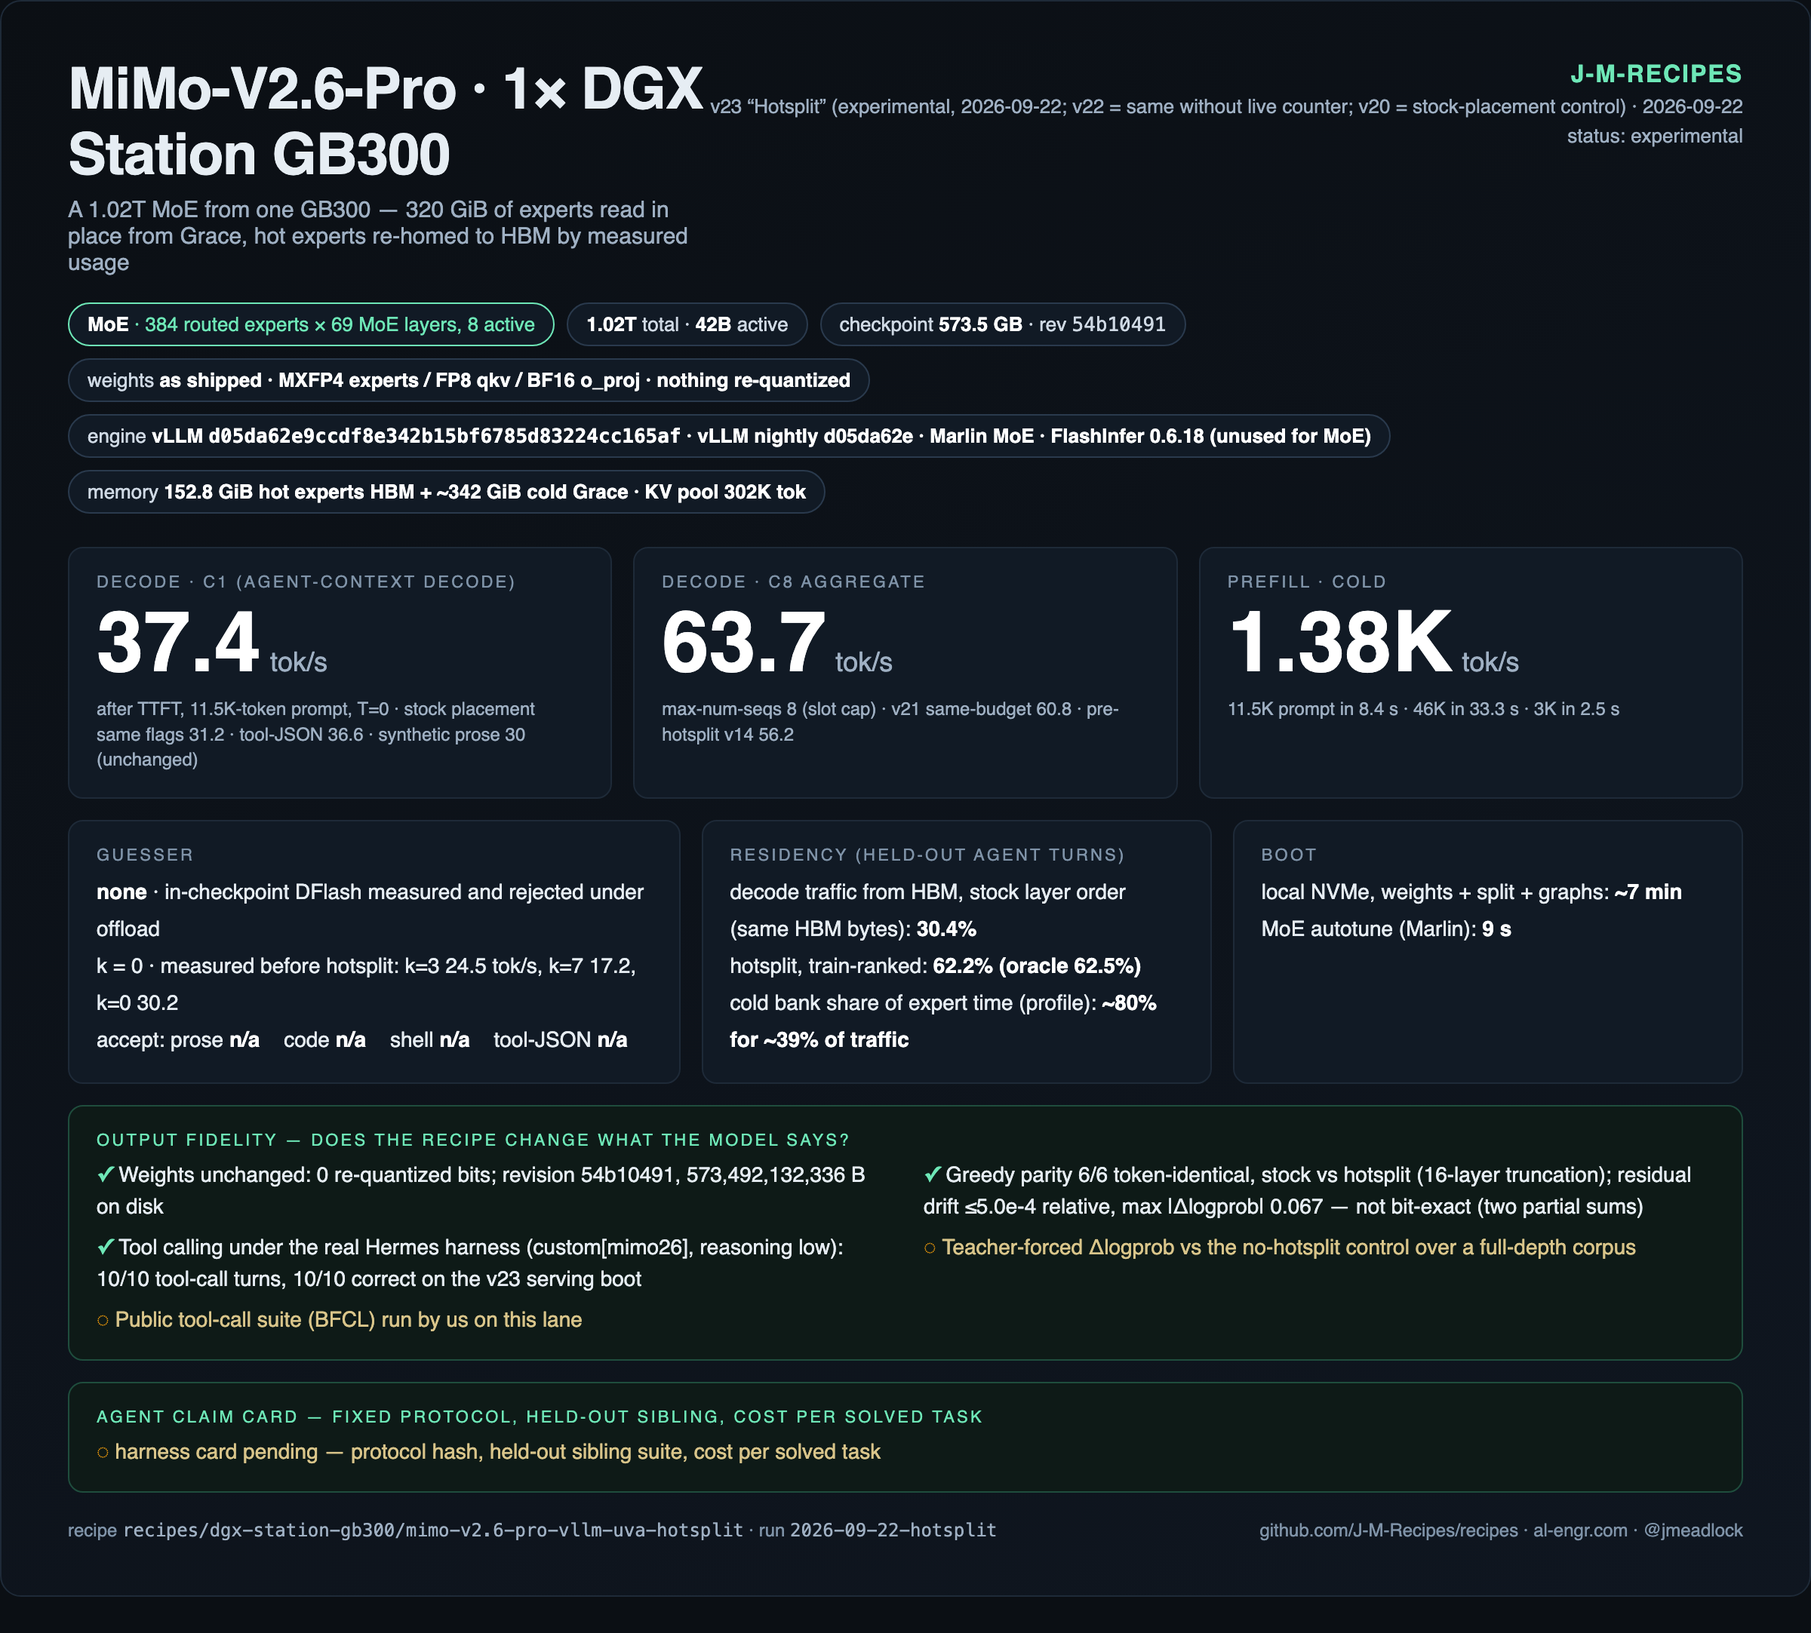
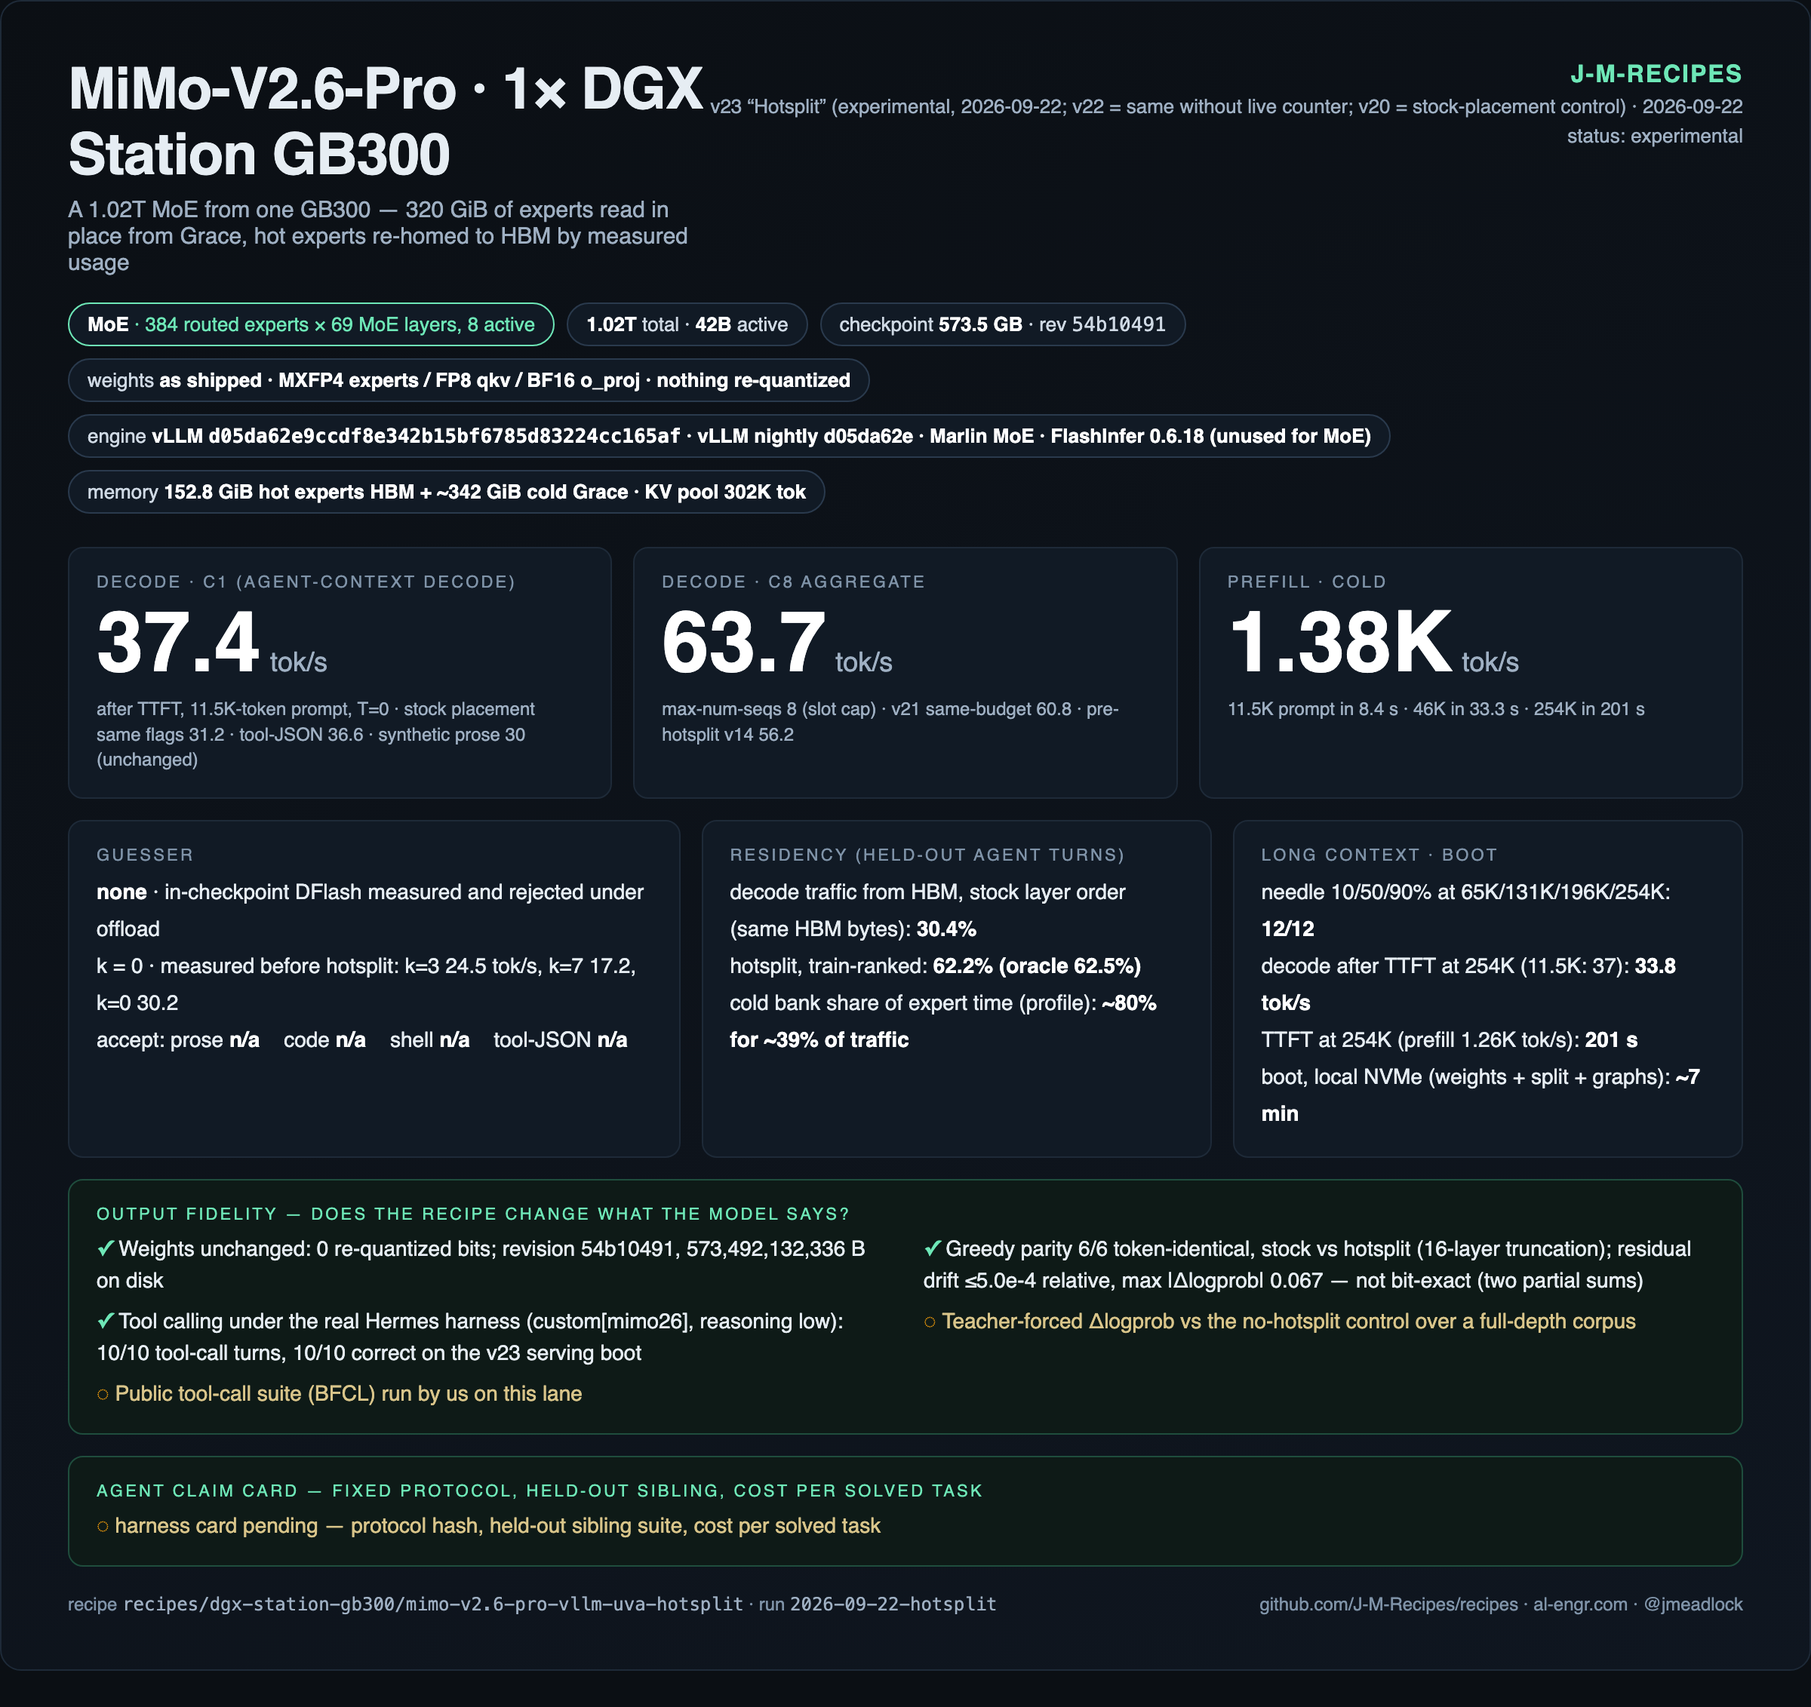
MiMo-V2.6-Pro hotsplit v23: long context to 254K — needles 12/12 at 65K/131K/196K/254K, decode 33.8 tok/s at 254K, TTFT 201 s; bench script + receipts (#48)

diff --git a/recipes/dgx-station-gb300/mimo-v2.6-pro-vllm-uva-hotsplit/card.html b/recipes/dgx-station-gb300/mimo-v2.6-pro-vllm-uva-hotsplit/card.html
@@ -57,12 +57,12 @@
   <div class="grid">
 <div class="box"><div class="lbl">Decode · C1 (agent-context decode)</div><div class="hero">37.4<small>tok/s</small></div><div class="note">after TTFT, 11.5K-token prompt, T=0 · stock placement same flags 31.2 · tool-JSON 36.6 · synthetic prose 30 (unchanged)</div></div>
 <div class="box"><div class="lbl">Decode · C8 aggregate</div><div class="hero">63.7<small>tok/s</small></div><div class="note">max-num-seqs 8 (slot cap) · v21 same-budget 60.8 · pre-hotsplit v14 56.2</div></div>
-<div class="box"><div class="lbl">Prefill · cold</div><div class="hero">1.38K<small>tok/s</small></div><div class="note">11.5K prompt in 8.4 s · 46K in 33.3 s · 3K in 2.5 s</div></div>
+<div class="box"><div class="lbl">Prefill · cold</div><div class="hero">1.38K<small>tok/s</small></div><div class="note">11.5K prompt in 8.4 s · 46K in 33.3 s · 254K in 201 s</div></div>
   </div>
   <div class="row2">
 <div class="box"><div class="lbl">Guesser</div><div class="kv"><b>none</b> · in-checkpoint DFlash measured and rejected under offload<br>k = 0 · measured before hotsplit: k=3 24.5 tok/s, k=7 17.2, k=0 30.2<br><span class="acc">accept: <span>prose <b>n/a</b></span> <span>code <b>n/a</b></span> <span>shell <b>n/a</b></span> <span>tool-JSON <b>n/a</b></span></span></div></div>
 <div class="box"><div class="lbl">Residency (held-out agent turns)</div><div class="kv">decode traffic from HBM, stock layer order (same HBM bytes): <b>30.4%</b><br>hotsplit, train-ranked: <b>62.2% (oracle 62.5%)</b><br>cold bank share of expert time (profile): <b>~80% for ~39% of traffic</b></div></div>
-<div class="box"><div class="lbl">Boot</div><div class="kv">local NVMe, weights + split + graphs: <b>~7 min</b><br>MoE autotune (Marlin): <b>9 s</b></div></div>
+<div class="box"><div class="lbl">Long context · boot</div><div class="kv">needle 10/50/90% at 65K/131K/196K/254K: <b>12/12</b><br>decode after TTFT at 254K (11.5K: 37): <b>33.8 tok/s</b><br>TTFT at 254K (prefill 1.26K tok/s): <b>201 s</b><br>boot, local NVMe (weights + split + graphs): <b>~7 min</b></div></div>
   </div>
   <div class="fid"><div class="lbl">Output fidelity — does the recipe change what the model says?</div>
     <ul>

diff --git a/recipes/dgx-station-gb300/mimo-v2.6-pro-vllm-uva-hotsplit/scripts/longctx_bench.py b/recipes/dgx-station-gb300/mimo-v2.6-pro-vllm-uva-hotsplit/scripts/longctx_bench.py
@@ -1,0 +1,95 @@
+"""Long-context probe for the :30007 MiMo lane (served max_model_len 262,144).
+Per target size: 3 needle-recall runs (depth 10/50/90%) + 1 decode-timing run (256 tok, ignore_eos).
+Filler = varied real text (Python stdlib source), unique nonce at the head defeats prefix caching.
+Results append to longctx-TAG.jsonl; summary to longctx-TAG.json.
+usage: python3 longctx_bench.py TAG [sizes...]"""
+import json, os, sys, time, urllib.request, random, glob, statistics
+TAG = sys.argv[1]
+SIZES = [int(s) for s in sys.argv[2:]] or [65536, 131072, 196608, 253952]
+BASE = os.environ.get("BASE", "http://127.0.0.1:30007")
+MODEL = "mimo26-pro"
+
+files = sorted(glob.glob("/usr/lib/python3*/**/*.py", recursive=True))
+random.Random(7).shuffle(files)
+corpus = []
+n = 0
+for f in files:
+    try: t = open(f, errors="ignore").read()
+    except Exception: continue
+    corpus.append(f"\n# ==== {f} ====\n{t}"); n += len(t)
+    if n > 2_500_000: break
+CORPUS = "".join(corpus)
+
+def post(path, obj, stream=False):
+    return urllib.request.urlopen(urllib.request.Request(BASE + path, data=json.dumps(obj).encode(),
+        headers={"Content-Type": "application/json"}), timeout=3600)
+
+def ntok(text):
+    return json.load(post("/tokenize", {"model": MODEL, "prompt": text}))["count"]
+
+sample = CORPUS[:400_000]
+CPT = len(sample) / ntok(sample)   # chars per token for this filler
+print(f"[{TAG}] chars/token {CPT:.3f}", flush=True)
+
+def build(target, depth, code, nonce):
+    body_chars = int((target - 400) * CPT)
+    off = random.Random(nonce).randrange(0, len(CORPUS) - int(body_chars * 1.6))
+    body = CORPUS[off: off + body_chars]
+    for _ in range(3):  # exact-size via tokenizer (filler density varies by file)
+        have = ntok(body)
+        if abs(have - (target - 400)) < 256: break
+        body_chars = int(body_chars * (target - 400) / have)
+        body = CORPUS[off: off + body_chars]
+    needle = f"\n# NOTE FOR REVIEWERS: the deployment access code for project Kestrel is {code}.\n" if code else ""
+    cut = int(len(body) * depth)
+    cut = body.rfind("\n", 0, cut) + 1 or cut
+    body = body[:cut] + needle + body[cut:]
+    q = ("What is the deployment access code for project Kestrel mentioned in the source above? "
+         "Reply with the code only.") if code else "Summarise the first file above in three sentences."
+    return f"[{nonce}] Below is a large dump of source code.\n\n{body}\n\n{q}"
+
+def run(prompt, maxtok, ignore_eos):
+    req = {"model": MODEL, "messages": [{"role": "user", "content": prompt}], "max_tokens": maxtok,
+           "temperature": 0, "stream": True, "stream_options": {"include_usage": True}, "ignore_eos": ignore_eos,
+           "chat_template_kwargs": {"enable_thinking": False}}
+    t0 = time.time(); first = None; usage = None; out = []
+    for line in post("/v1/chat/completions", req):
+        line = line.decode().strip()
+        if not line.startswith("data:") or line.endswith("[DONE]"): continue
+        d = json.loads(line[5:])
+        if d.get("usage"): usage = d["usage"]
+        if d.get("choices"):
+            c = d["choices"][0].get("delta", {}).get("content")
+            if c:
+                if first is None: first = time.time()
+                out.append(c)
+    t1 = time.time()
+    n = usage["completion_tokens"]
+    dec = (n - 1) / (t1 - first) if first and n > 1 else None
+    return {"prompt_tokens": usage["prompt_tokens"], "ttft_s": round(first - t0, 2) if first else None,
+            "decode_tok_s": round(dec, 1) if dec else None, "completion_tokens": n, "text": "".join(out)}
+
+rows = []
+log = open(f"longctx-{TAG}.jsonl", "a")
+for size in SIZES:
+    for depth in (0.1, 0.5, 0.9):
+        code = f"{random.randint(100,999)}-{random.choice(['ORCA','LYNX','WREN','BISON','OTTER'])}-{random.randint(1000,9999)}"
+        nonce = f"{TAG}-{size}-{depth}-{random.random()}"
+        try:
+            r = run(build(size, depth, code, nonce), 32, False)
+            r.update(kind="needle", size=size, depth=depth, code=code, pass_=code in r["text"])
+        except Exception as e:
+            r = {"kind": "needle", "size": size, "depth": depth, "error": repr(e)}
+        rows.append(r); log.write(json.dumps(r) + "\n"); log.flush()
+        print(f"[{TAG}] needle {size:>6} d={depth}: prompt={r.get('prompt_tokens')} TTFT={r.get('ttft_s')}s "
+              f"prefill={round(r['prompt_tokens']/r['ttft_s']) if r.get('ttft_s') else None} tok/s "
+              f"pass={r.get('pass_')} got={r.get('text', r.get('error'))!r}", flush=True)
+    nonce = f"{TAG}-{size}-dec-{random.random()}"
+    try:
+        r = run(build(size, 0.5, None, nonce), 256, True); r.update(kind="decode", size=size); r.pop("text")
+    except Exception as e:
+        r = {"kind": "decode", "size": size, "error": repr(e)}
+    rows.append(r); log.write(json.dumps(r) + "\n"); log.flush()
+    print(f"[{TAG}] decode {size:>6}: prompt={r.get('prompt_tokens')} TTFT={r.get('ttft_s')}s decode={r.get('decode_tok_s')} tok/s", flush=True)
+json.dump(rows, open(f"longctx-{TAG}.json", "w"), indent=1)
+print(f"[{TAG}] LONGCTX_DONE needles {sum(1 for r in rows if r.get('pass_'))}/{sum(1 for r in rows if r['kind']=='needle')}", flush=True)

diff --git a/README.md b/README.md
@@ -15,7 +15,7 @@ Written by James Meadlock and Milo. Recipes are MIT; models and engines carry th
 | `dgx-station-gb300` | [DeepSeek-V4.1-Flash at 1M context on one DGX Station GB300 (vLLM UVA expert offload + DSpark)](recipes/dgx-station-gb300/deepseek-v4.1-flash-vllm-uva-dspark/) | DeepSeek-V4.1-Flash (as shipped — routed experts MXFP4 (I8 + E8M0 block scales), Engram and attention FP8. Nothing re-quantized.) | ✅ verified | 180.6 tok/s @ C1, warm, prose (knee.sh), T=0, ignore_eos, 192 tok; nightly 2671fedf + v15 hook, off54, fp8_ds_mla, autotune set a34f9ad4 LOADED; max-num-seqs 24 | 2026-09-20 |
 | `dgx-station-gb300` | [GLM-5.3-Flash NVFP4 + DFlash2 speculative decoding on one DGX Station GB300](recipes/dgx-station-gb300/glm-5.3-flash-nvfp4-dflash2/) | GLM-5.3-Flash (NVFP4 (NVIDIA ModelOpt, first-party; 204,475,659,764 bytes). Routed experts FP4; attention, shared experts, router, embeddings, lm_head unquantized (132 excluded modules). mean |dlogp| 0.136 vs zai-org/GLM-5.3-Flash FP8 on 5,120 teacher-forced tokens; argmax differs 15.6%. LibertAIDAI/GLM-5.3-Flash-NVFP4 (previous revision of this recipe): 0.147 / 15.9%. nvidia closer on 27/40 prompts, bootstrap 95% CI on the gap [0.004, 0.017]. Most divergence is shared NVFP4 bias: both quants pick the same non-FP8 token 10.3% of the time. Previous revision of this recipe used LibertAIDAI/GLM-5.3-Flash-NVFP4 @ aa28e1f54130286c95fee10d0705c74ce8743734 (run 2026-09-01); speed identical within noise (235.5 vs 238.1 C1); kept as control.) | ✅ verified | 201.9 tok/s @ C1, history essay, 512 output tokens, answer-only (reasoning_effort low), DFlash2 block 7, 1M ctx, lmsysorg/sglang:v0.5.20-cu130; same window pinned-nightly control 193.3 | 2026-09-16 |
 | `dgx-station-gb300` | [Full GLM-5.3 NVFP4 on one DGX Station GB300 (vLLM UVA offload + HBM expert slot cache + MTP)](recipes/dgx-station-gb300/glm-5.3-nvfp4-uva-slot-cache/) | GLM-5.3 (NVFP4 (ModelOpt)) | ✅ verified | 54.69 tok/s @ C1, 8 prompts x 512 tokens, n=3, 256K ctx, slot cache 7,360 + fused hook + MTP(2); V1 baseline 33.8 | 2026-09-15 |
-| `dgx-station-gb300` | [MiMo-V2.6-Pro (1.02T MoE) on one DGX Station GB300 (vLLM UVA expert offload + per-expert HBM residency)](recipes/dgx-station-gb300/mimo-v2.6-pro-vllm-uva-hotsplit/) | MiMo-V2.6-Pro-RL (as shipped — routed experts MXFP4 (494.9 GiB), fused qkv_proj FP8 e4m3 128x128 blocks (10.9 GiB), o_proj BF16 (13.1 GiB, in ignored_layers). Nothing re-quantized. 573,492,132,336 bytes on disk incl. ViT/audio/DFlash drafter.) | 🧪 experimental | 37.4 tok/s @ C1, streamed, 11,524-token prompt of shell-script text, 128 output tokens, T=0, ignore_eos, thinking off; median of 3; decode = (tokens-1)/(t_last - t_first) | 2026-09-22 |
+| `dgx-station-gb300` | [MiMo-V2.6-Pro (1.02T MoE) on one DGX Station GB300 (vLLM UVA expert offload + per-expert HBM residency)](recipes/dgx-station-gb300/mimo-v2.6-pro-vllm-uva-hotsplit/) | MiMo-V2.6-Pro-RL (as shipped — routed experts MXFP4 (494.9 GiB), fused qkv_proj FP8 e4m3 128x128 blocks (10.9 GiB), o_proj BF16 (13.1 GiB, in ignored_layers). Nothing re-quantized. 573,492,132,336 bytes on disk incl. ViT/audio/DFlash drafter.) | 🧪 experimental | 33.8 tok/s @ scripts/longctx_bench.py: C1, streamed, Python-source filler sized by /tokenize, nonce-prefixed, 256 output tokens, T=0, ignore_eos, thinking off; lane otherwise idle | 2026-09-22 |
 
 <!-- recipe-index:end -->
 

diff --git a/recipes/dgx-station-gb300/mimo-v2.6-pro-vllm-uva-hotsplit/results/2026-09-22-hotsplit/longctx.md b/recipes/dgx-station-gb300/mimo-v2.6-pro-vllm-uva-hotsplit/results/2026-09-22-hotsplit/longctx.md
@@ -1,0 +1,40 @@
+# Long context on the v23 serving lane (September 22, 2026, 9:17–11:40 PM CDT)
+
+Asked for publicly ("Can you do long context pls?"). Client-only bench, no restart: `scripts/longctx_bench.py`
+against `:30007` (v23, `--max-model-len 262144`, KV pool 302,368 tokens).
+
+- Filler: real Python standard-library source, a random offset per prompt, sized with the server's `/tokenize` endpoint.
+- Every prompt starts with a unique nonce, so the prefix cache cannot help.
+- **Needle:** a random code (`NNN-WORD-NNNN`) is planted at 10%, 50% and 90% depth.
+  The model is asked for it; pass = the exact code appears in the reply. Thinking is off, T=0, and max_tokens is 32.
+- **Decode:** same filler, no needle, and a 256-token reply with ignore_eos. decode = (tokens−1)/(t_last − t_first).
+  Prefill = prompt tokens / TTFT.
+
+## Clean rows (lane otherwise idle)
+
+| prompt tokens | needles 10/50/90% | TTFT | prefill | decode (256 tok) | run |
+|---|---|---|---|---|---|
+| 61.8K–65.3K | 3/3 | 46.7–48.7 s | 1,326–1,350 tok/s | 34.0 tok/s | v23 |
+| 130.7K–130.9K | 3/3 | 99.8 s | 1,310–1,312 tok/s | 34.3 tok/s | v23 |
+| 196.3K–196.9K | 3/3 | 152.7–154.4 s | 1,276–1,285 tok/s | 33.3 tok/s | v23b |
+| 253.4K–253.7K | 3/3 | 200.9–201.3 s | 1,261–1,262 tok/s | 33.8 tok/s | v23b |
+
+Needles 12/12 on clean rows. Reference at 11.5K on the same lane: decode 36.9–37.1 tok/s, prefill 1,376 tok/s.
+At 254K, decode is ~9% lower than at 11.5K, and prefill is ~8% lower.
+
+## Contended rows (kept, not used)
+
+From 9:30 to 9:54 PM CDT, another client's requests shared the lane (vLLM log: `Running: 2` / `Waiting: 1`).
+That overlapped the first run's 196K and 254K sizes. In those rows, 196K decode read 21.8 tok/s.
+At 254K, the 90% needle's TTFT read 243 s and the decode row's TTFT read 306 s. All six needles still passed.
+The two sizes were re-run as `v23b` on an idle lane. Both files are in `receipts/`: `longctx-v23.*` is the first run,
+and `longctx-v23b.*` is the re-run. The 16K `longctx-smoke.jsonl` validated the script (3/3).
+
+Total needle recall across all runs: 21/21 (smoke 3, v23 12, v23b 6).
+
+## What this does not show
+
+- A single planted fact is the easiest long-context test. It says the lane attends across 254K tokens.
+  It does not measure multi-hop reasoning or summarization quality at that length (RULER-style suites: pending).
+- One request at a time. The 302K KV pool fits one 254K request; two long contexts at once need the stock-equal
+  budget variant (514K KV).

diff --git a/recipes/dgx-station-gb300/mimo-v2.6-pro-vllm-uva-hotsplit/README.md b/recipes/dgx-station-gb300/mimo-v2.6-pro-vllm-uva-hotsplit/README.md
@@ -46,6 +46,7 @@ Variants: drop `152.8` for the stock-equal budget (KV 514K); unset `COUNTS` for 
 
 - `curl -fs http://localhost:30007/v1/models`; boot ~7 min.
 - Log lines: `Using 'MARLIN' Mxfp4 MoE backend`, `Total CPU offloaded parameters: 321.75`, `hotsplit plan: 69 layers, budget 152.8 GiB (stock HBM experts 141.8 GiB), hot cells 8692/26496`, `hotsplit done in ~32s; HBM free 34.7 GiB`, `GPU KV cache size: 302,3xx tokens`.
+- Long context: `python3 scripts/longctx_bench.py <tag> 65536 131072 196608 253952` (~45 min on an idle lane).
 - `bash scripts/agent_fixture.sh warm` once and discard (first pass reads ~20% low), then `python3 scripts/ttft_bench.py <tag>` and `bash scripts/agent_fixture.sh <tag>`.
 - Tool calling through Hermes: `bash scripts/harness_test.sh` then `python3 scripts/score_harness.py /tmp/harness-mimo26`.
 
@@ -63,6 +64,7 @@ Warm, same image and flags; only the hotsplit env differs.
 | prefill, 11.5K prompt | 1,259 tok/s | 1,334 | 1,376 |
 | GPU KV cache | 490,466 tok | 513,612 | 302,368 (1.15× one 256K request) |
 
+- **Long context (v23, one request, lane idle):** needle recall at 10/50/90% depth **12/12** at 65K / 131K / 196K / 254K prompt tokens. Decode after TTFT **34.0 / 34.3 / 33.3 / 33.8 tok/s**, and 36.9–37.1 at 11.5K. Prefill 1,350 → 1,262 tok/s, so TTFT is **201 s at 254K**. Bench: `scripts/longctx_bench.py`; rows, method, and two discarded contended rows: `results/2026-09-22-hotsplit/longctx.md`.
 - Held-out decode traffic served from HBM at the stock byte budget: **30.4% → 62.2%** (ranked on 630 real agent turns, tested on 270 held out; oracle 62.5%; prefill-ranked 54.9%).
 - Hermes harness on the v23 serving boot: **10/10 tool-call turns, 10/10 correct** (`results/2026-09-22-hotsplit/harness-summary.md`).
 - Fidelity: 16-layer truncated Pro, stock vs hotsplit, greedy **6/6 token-identical**; residual drift ≤5.0e-4 relative by layer 15; max |Δlogprob| 0.067 (two partial sums change summation order — not bit-exact). Full-depth teacher-forced Δlogprob and a public tool-call suite are **pending**.
